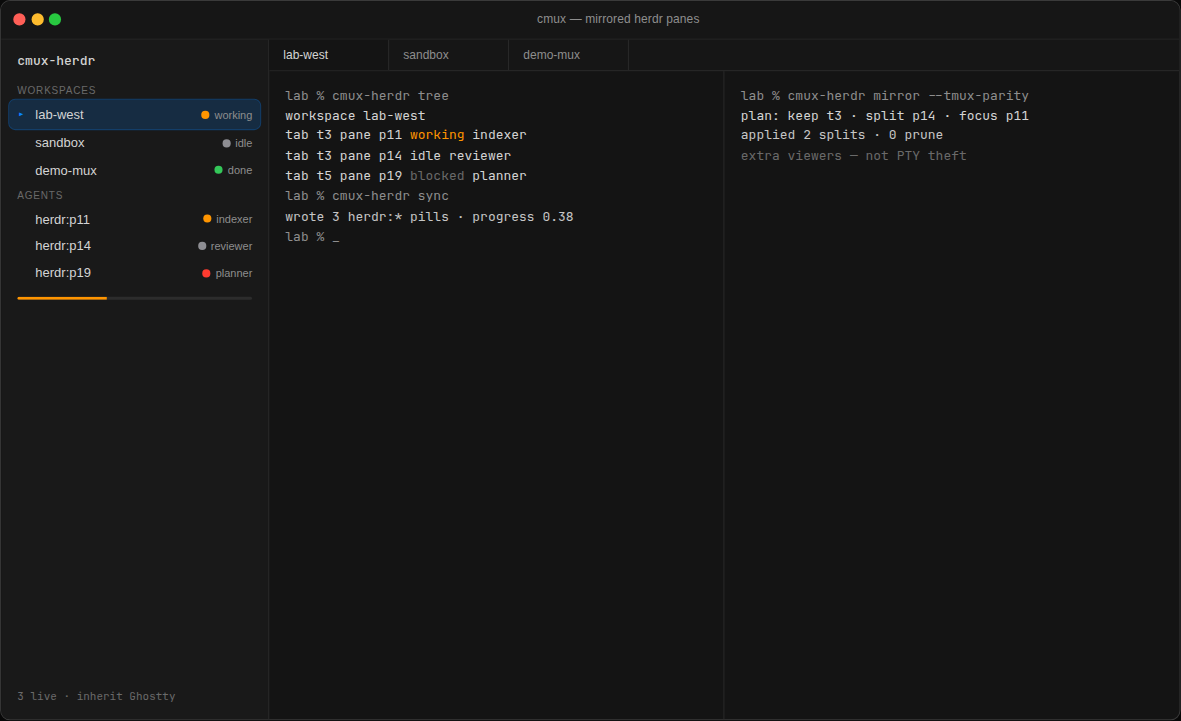
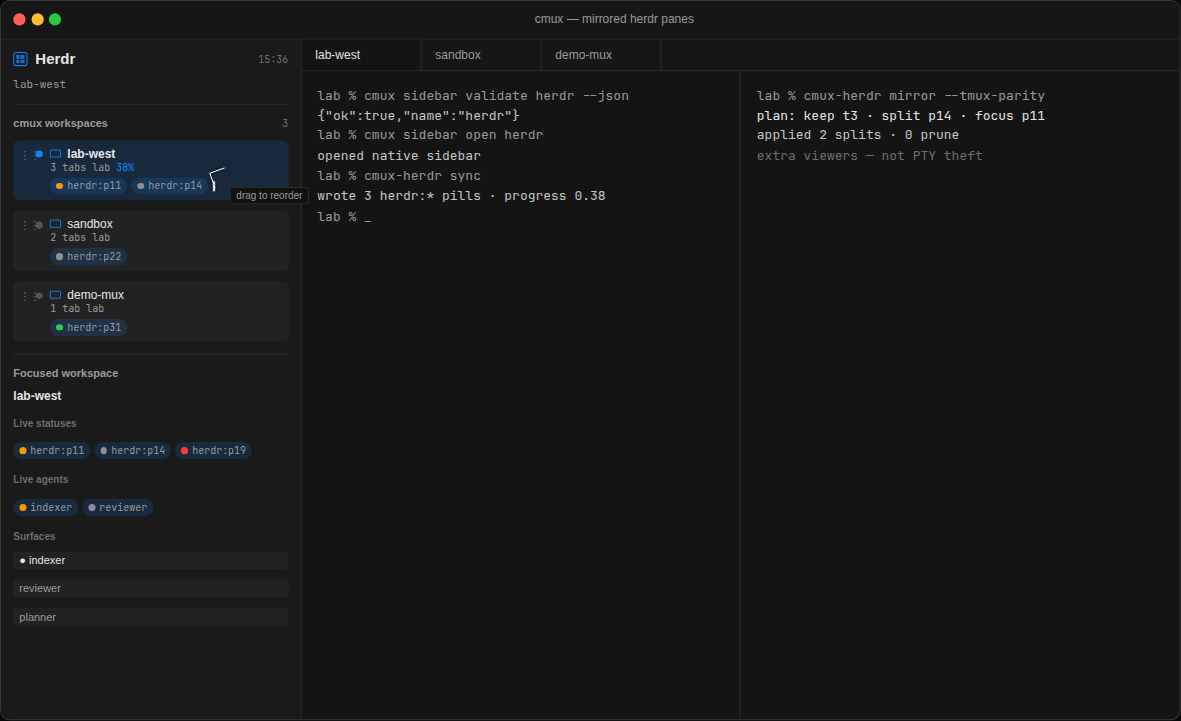
Lead README with native herdr.swift sidebar (v0.5.0)
Document the interpreted Swift sidebar as the in-app UI (mouse, DnD, Reorderable live workspaces). Keep plugin-manager as the CLI checkout. Refresh lab screenshots. Do not change sidebars/herdr.swift.

diff --git a/tests/test_plugin_manager.py b/tests/test_plugin_manager.py
@@ -174,25 +174,37 @@ class PluginManagerInstallSimulationTests(unittest.TestCase):
 
 
 class OfficialInstallCopyTests(unittest.TestCase):
-    """Public install path is the official cmux plugin manager."""
+    """README leads with native herdr.swift, then official plugin-manager CLI."""
 
-    REQUIRED = (
+    NATIVE = (
+        "cp sidebars/herdr.swift ~/.config/cmux/sidebars/herdr.swift",
+        "cmux sidebar validate herdr --json",
+        "cmux sidebar open herdr",
+    )
+    PLUGIN_MANAGER = (
         "cmux sidebar plugin install https://github.com/RaviTharuma/cmux-herdr.git",
         "cmux sidebar plugin use cmux-herdr",
         "cmux sidebar plugin update cmux-herdr",
         "cmux sidebar plugin remove cmux-herdr",
     )
 
-    def test_readme_install_is_official_only(self) -> None:
+    def test_readme_leads_with_native_sidebar_then_plugin_manager(self) -> None:
         text = README.read_text(encoding="utf-8")
-        for line in self.REQUIRED:
-            self.assertIn(line, text)
-        install_section = text.split("## Install", 1)[1].split("## ", 1)[0]
+        install_section = text.split("## Install", 1)[1].split("## Features", 1)[0]
+        native_at = min(install_section.find(line) for line in self.NATIVE)
+        plugin_at = min(install_section.find(line) for line in self.PLUGIN_MANAGER)
+        self.assertNotEqual(native_at, -1)
+        self.assertNotEqual(plugin_at, -1)
+        self.assertLess(native_at, plugin_at)
+        for line in self.NATIVE + self.PLUGIN_MANAGER:
+            self.assertIn(line, install_section)
+        self.assertIn("Reorderable", install_section)
         self.assertNotIn("./scripts/install.sh", install_section)
         self.assertNotIn("git clone --branch", install_section)
         hero = text.split("## Install", 1)[0]
         self.assertIn("docs/screenshot.png", hero)
         self.assertIn("github/v/release/RaviTharuma/cmux-herdr", text)
+        self.assertIn("Native sidebar", text.split("## Features", 1)[1].split("## ", 1)[0])
 
     def test_hero_and_feature_screenshots_exist(self) -> None:
         for rel in (

diff --git a/scripts/changelog_notes.py b/scripts/changelog_notes.py
@@ -47,11 +47,16 @@ def release_notes(tag: str, changelog_text: str | None = None) -> str:
         f"---\n\n"
         f"Install:\n\n"
         f"```bash\n"
+        f"mkdir -p ~/.config/cmux/sidebars\n"
+        f"cp sidebars/herdr.swift ~/.config/cmux/sidebars/herdr.swift\n"
+        f"cmux sidebar validate herdr --json\n"
+        f"cmux sidebar open herdr\n"
         f"cmux sidebar plugin install "
         f"https://github.com/RaviTharuma/cmux-herdr.git\n"
         f"cmux sidebar plugin use cmux-herdr\n"
         f"```\n\n"
-        f"Python 3.10+, stdlib only. Plugin-manager `[build]` is chmod +x, not Cargo.\n"
+        f"In-app UI is the native Swift sidebar (mouse / Reorderable). "
+        f"Plugin-manager is the CLI checkout. `[build]` is chmod +x, not Cargo.\n"
     )
 
 

diff --git a/tests/test_changelog_notes.py b/tests/test_changelog_notes.py
@@ -51,6 +51,8 @@ class ChangelogNotesTests(unittest.TestCase):
 
     def test_release_notes_include_install(self) -> None:
         text = notes.release_notes("v0.3.4", self.SAMPLE)
+        self.assertIn("cmux sidebar validate herdr", text)
+        self.assertIn("cmux sidebar open herdr", text)
         self.assertIn("cmux sidebar plugin install", text)
         self.assertIn("cmux sidebar plugin use cmux-herdr", text)
         self.assertIn("chmod +x", text)

diff --git a/README.md b/README.md
@@ -7,7 +7,7 @@
 </p>
 
 <p align="center">
-  <img src="docs/screenshot.png" alt="cmux-herdr sidebar plugin in cmux: lab workspaces and status pills next to a Ghostty terminal" />
+  <img src="docs/screenshot.png" alt="Native herdr Swift sidebar in cmux: Reorderable lab workspaces, status pills, and Ghostty chrome" />
 </p>
 
 <p align="center">
@@ -41,7 +41,25 @@ standard library only — no `pip`, no `npm`, no Cargo binary.
 
 ## Install
 
-Requires a cmux build that ships `cmux sidebar plugin`.
+The in-app UI is the interpreted Swift sidebar `herdr` — mouse, drag-and-drop,
+and `Reorderable` over **live cmux workspaces**. It is not a keyboard TUI and
+it does not invent a team.
+
+From a clone (or the plugin-manager checkout):
+
+```bash
+mkdir -p ~/.config/cmux/sidebars
+cp sidebars/herdr.swift ~/.config/cmux/sidebars/herdr.swift
+cmux sidebar reload
+cmux sidebar validate herdr --json
+cmux sidebar open herdr
+```
+
+Enable custom sidebars in cmux Settings → Beta features if `open` is refused.
+
+### CLI (official plugin manager)
+
+The `cmux-herdr` CLI and optional plugin-manager checkout:
 
 ```bash
 cmux sidebar plugin install https://github.com/RaviTharuma/cmux-herdr.git
@@ -50,17 +68,13 @@ cmux sidebar plugin update cmux-herdr
 cmux sidebar plugin remove cmux-herdr
 ```
 
-That clones the repo into the cmux plugin directory, reads `cmux-plugin.toml`
-(`kind = "sidebar"`, name `cmux-herdr`), runs the optional `[build]` (chmod +x
-on the Python sidebar wrapper — nothing is compiled), and verifies
-`bin/cmux-herdr-sidebar` is executable. `use` writes the resolved command into
-cmux-tui config.
+That clones into `$XDG_DATA_HOME/cmux/mux-plugins/cmux-herdr` (or
+`~/.local/share/cmux/mux-plugins/cmux-herdr`). Copy `sidebars/herdr.swift`
+from there if you did not already. `cmux-plugin.toml` is honest Python
+(`[build]` is chmod +x, not Cargo). Plugin-manager `use` may host a PTY
+fallback; the product sidebar remains `herdr.swift`.
 
-The sidebar TUI inherits the host Ghostty/cmux palette and lists **live
-workspaces from the cmux control socket** (`CMUX_TUI_SOCKET`, legacy
-`CMUX_MUX_SOCKET`). It does not invent a team.
-
-Contributor clone + symlink (not the user install): [CONTRIBUTING.md](CONTRIBUTING.md).
+Contributor symlink of the CLI (not the user UI path): [CONTRIBUTING.md](CONTRIBUTING.md).
 Release notes: [RELEASE.md](RELEASE.md).
 
 ## Features
@@ -71,16 +85,16 @@ Release notes: [RELEASE.md](RELEASE.md).
 | **Tab and pane mirror** | `cmux-herdr mirror --tmux-parity` projects Herdr tabs into real cmux tabs and splits, with layout, focus, order, and prune. Same contract cmux gives tmux over SSH. |
 | **Live watch** | `cmux-herdr watch --tmux-parity` keeps pills and surfaces in sync. Prefers Herdr `events.subscribe`; otherwise polls. Optional LaunchAgent so it survives closing the pane. |
 | **One CLI** | Topology (`tree`, `agents`), control (`new-tab`, `send`, `agent-prompt`), attach/detach/restore, and the published Herdr socket API — never `server.stop`. |
-| **Sidebar plugin** | Official plugin-manager TUI plus an optional interpreted Swift `herdr` sidebar for older custom-sidebar builds. |
+| **Native sidebar** | Interpreted Swift `herdr` with mouse, drag-and-drop, and `Reorderable` live workspaces. Status pills, agents, and surfaces bind host cmux context. Ghostty/cmux theme tokens — no custom green skin. |
 | **Agent skill** | Ships a `cmux-herdr` skill so coding agents learn the dual hierarchy instead of pretending Herdr is tmux. |
 | **Safe handoff** | Plugin and native cmux share one writer lease. If native nested topology is live, this plugin yields. If native dies, watch can resume. |
 
 <p align="center">
-  <img src="docs/screenshot-pills.png" alt="Lab status pills in the cmux sidebar: working, idle, done, blocked" />
+  <img src="docs/screenshot-pills.png" alt="Native herdr sidebar showing Reorderable lab workspaces and live status pills" />
 </p>
 
 <p align="center">
-  <img src="docs/screenshot-mirror.png" alt="Lab Herdr tabs mirrored into cmux splits beside the plugin sidebar" />
+  <img src="docs/screenshot-mirror.png" alt="Native herdr sidebar beside lab-mirrored cmux splits" />
 </p>
 
 ## Quick start
@@ -96,12 +110,14 @@ cmux-herdr sync                # one-shot status pills
 cmux-herdr watch --tmux-parity # live pills + tabs/splits
 ```
 
-After `cmux sidebar plugin use cmux-herdr`, focus the sidebar (`prefix S` in
-cmux-tui). The TUI reads live workspaces from the mux socket; `Esc` is ignored
-because cmux owns the focus escape chord.
+Open the native sidebar after the copy step:
 
-Older custom-sidebar builds can still load `herdr.swift` from Settings → Beta
-features → Custom sidebars, then `cmux sidebar reload`.
+```bash
+cmux sidebar validate herdr --json
+cmux sidebar open herdr
+```
+
+Then `cmux-herdr sync` or `watch` so `herdr:*` pills show up on those rows.
 
 ## Commands
 

diff --git a/CHANGELOG.md b/CHANGELOG.md
@@ -11,21 +11,19 @@ and this project uses [Semantic Versioning](https://semver.org/spec/v2.0.0.html)
 
 ### Added
 
-- Official cmux plugin-manager install: `cmux-plugin.toml` (`kind = "sidebar"`,
-  name `cmux-herdr`) plus a stdlib sidebar TUI at `bin/cmux-herdr-sidebar`.
-  `[build]` only ensures the wrapper is executable — no Cargo binary is faked.
-  The TUI lists live workspaces from `CMUX_TUI_SOCKET` / `CMUX_MUX_SOCKET`
-  (`identify`, `list-workspaces`, `select-workspace`) and inherits the host
-  Ghostty/cmux palette.
-- README hero and feature screenshots (lab/mock chrome only).
-- Interpreted Swift sidebar binds live cmux workspaces and inherits
-  Ghostty/cmux theme tokens (no invented team; landed on main in #63).
+- Official cmux plugin-manager install for the CLI: `cmux-plugin.toml`
+  (`kind = "sidebar"`, name `cmux-herdr`). `[build]` is chmod +x, not Cargo.
+- README hero and feature screenshots of the **native** `herdr` sidebar
+  (lab/mock chrome only).
+- Interpreted Swift sidebar binds live cmux workspaces with `Reorderable`
+  mouse/DnD and Ghostty/cmux theme tokens (no invented team; #63).
 
 ### Changed
 
-- Documented install is the official plugin manager only:
-  `cmux sidebar plugin install` / `use` / `update` / `remove`.
-  `./scripts/install.sh` is contributor/dev (see CONTRIBUTING.md).
+- Documented user UI is the native sidebar: copy `sidebars/herdr.swift` to
+  `~/.config/cmux/sidebars`, then `cmux sidebar validate herdr` /
+  `cmux sidebar open herdr`. Plugin-manager install/use/update/remove remains
+  the official CLI checkout. `./scripts/install.sh` is contributor/dev.
 - Refreshed upstream status after Austin's direct #8736 follow-up fixes and
   the latest current-`main` update of #10045.
 

diff --git a/docs/de/README.md b/docs/de/README.md
@@ -7,8 +7,9 @@ und eine CLI, die verschachtelte Herdr-Agenten als vollwertige cmux-Flächen
 behandelt.
 
 ```bash
-cmux sidebar plugin install https://github.com/RaviTharuma/cmux-herdr.git
-cmux sidebar plugin use cmux-herdr
+cp sidebars/herdr.swift ~/.config/cmux/sidebars/herdr.swift
+cmux sidebar validate herdr --json
+cmux sidebar open herdr
 ```
 
 Das GitHub-Projekt ist öffentlich:
@@ -41,7 +42,18 @@ Aktuelle Version: **v0.5.0**.
 
 ## Installation
 
-Offizielle Installation über den cmux Plugin-Manager:
+Die Produkt-UI ist die native Swift-Sidebar `herdr` (Maus, Drag-and-drop,
+`Reorderable` über live cmux-Workspaces) — kein Tastatur-TUI.
+
+```bash
+mkdir -p ~/.config/cmux/sidebars
+cp sidebars/herdr.swift ~/.config/cmux/sidebars/herdr.swift
+cmux sidebar reload
+cmux sidebar validate herdr --json
+cmux sidebar open herdr
+```
+
+CLI über den offiziellen Plugin-Manager:
 
 ```bash
 cmux sidebar plugin install https://github.com/RaviTharuma/cmux-herdr.git

diff --git a/RELEASE.md b/RELEASE.md
@@ -43,6 +43,17 @@ Optional live smoke (macOS, Herdr nested in cmux):
 
 ## Install from the tag
 
+Native sidebar (in-app UI):
+
+```bash
+mkdir -p ~/.config/cmux/sidebars
+cp sidebars/herdr.swift ~/.config/cmux/sidebars/herdr.swift
+cmux sidebar validate herdr --json
+cmux sidebar open herdr
+```
+
+CLI checkout:
+
 ```bash
 cmux sidebar plugin install https://github.com/RaviTharuma/cmux-herdr.git
 cmux sidebar plugin use cmux-herdr
